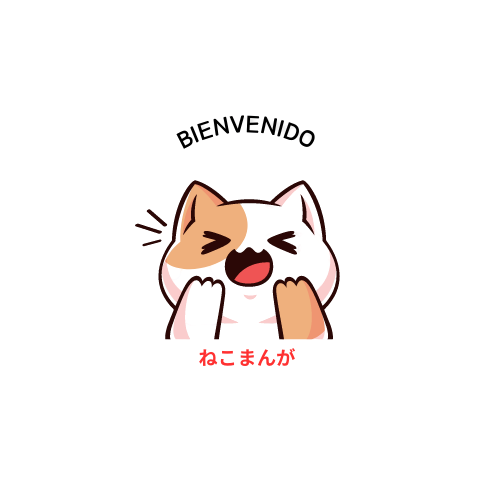
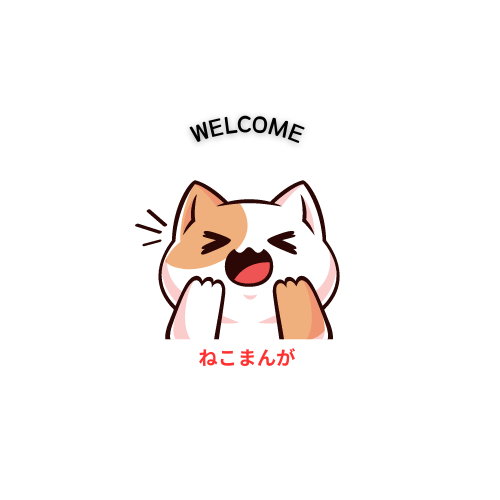
FinalChanges

Changed region(s): [[0.36, 0.21, 0.63, 0.3]]

diff --git a/src/pages/HomePage.jsx b/src/pages/HomePage.jsx
@@ -10,27 +10,27 @@ function HomePage() {
   <section id="bienvenida">
     
     <header>
-      <h1>Bienvenido!🌸</h1>
+      <h1>Welcome!🌸</h1>
     </header>
   </section>
 <section>
-  <h1 className="Description">⛩Encuentra productos originales importados desde Japón⛩</h1>
+  <h1 className="Description">⛩Find original products imported from Japan⛩</h1>
   </section>
   
   <div className="contenido1">
     <div className="texto">
       <p className="texto1">
-        Encontrarás una amplia selección de productos relacionados con el mundo del manga y anime.
+      You will find a wide selection of products related to the world of manga and anime.
       </p>
       <p className="texto2">
-        Contamos con juegos y artículos de colección, aquí tendrás todo lo que necesitas para satisfacer tu pasión por este fascinante universo. Ofrecemos productos de alta calidad a precios competitivos, junto con un servicio de atención al cliente excepcional.
+      We have games and collectibles, here you will have everything you need to satisfy your passion for this fascinating universe. We offer high-quality products at competitive prices, along with exceptional customer service.
       </p>
      
       <p className="texto3">
-        Podrás elegir entre clásicos hasta los últimos éxitos. Descubre figuras coleccionables, ropa, accesorios, mangas y mucho más.
+      You can choose from classics to the latest hits. Discover collectible figures, clothing, accessories, sleeves and much more.
       </p>
       <p className="texto4">
-        ⭐¡Explora nuestra tienda en línea!⭐
+        ⭐Explore our online store!⭐
 
         
       </p>

diff --git a/src/components/FigureList/FigureCard.jsx b/src/components/FigureList/FigureCard.jsx
@@ -1,13 +1,10 @@
-import React, { useState, useEffect, useContext } from 'react';
+import React, { useState, useEffect} from 'react';
 import axios from 'axios';
 import CardProduct from '../CardProduct';
-import { Link } from 'react-router-dom';
-import { AuthContext } from '../context/auth.context';
+
 
 function Figures() {
- 
   const [figures, setFigures] = useState([]);
-
   useEffect(() => {
     const baseURL = process.env.REACT_APP_SERVER_URL || "http://localhost:5005";
     axios.get(`${baseURL}/figures/create`).then(res => {
@@ -15,23 +12,17 @@ function Figures() {
       console.log(res.data)
     });
   }, [])
-  const { user,isLoggedIn } = useContext(AuthContext);
+
+
   return (  
     <div>
-   
       <h1>Figures</h1>
       <ul>
         {figures.map(figure => (
           <CardProduct key={figure._id} figure={figure} type={"figures"}/>
         ))}
       </ul>
-      {user && user.isAdmin && isLoggedIn ? (
-        <Link to="/create-manga">
-          <button>Create Product</button>
-        </Link>
-  ) : null}
     </div>
-    
   );
 }
 

diff --git a/src/pages/MangasList.jsx b/src/pages/MangasList.jsx
@@ -1,7 +1,8 @@
-import React, {useEffect, useState} from 'react'
+import React, {useEffect, useState, useContext } from 'react'
 import axios from 'axios';
 import CardProduct from '../components/CardProduct';
 import {Link, useNavigate} from 'react-router-dom';
+import { AuthContext } from '../context/auth.context';
 import './MangasList.css';
 
 function MangasList() {
@@ -28,16 +29,24 @@ function MangasList() {
             console.error(err);
         }
     };
+    const { user } = useContext(AuthContext)
+  console.log(user)
+  
+  let admin = "user"
+  if (user && user.type) {
+    admin = "admin"
+  } 
 
     return (
         <div>
             {mangas.map(manga => (
                 <CardProduct key={manga._id} figure={manga} type={"products"} handleDelete={handleDelete} />
             ))}
-          
+           {admin === 'admin' && (
             <Link to="/create-manga">
                 <button className='buton1'>Create Product</button>
             </Link>
+              )}
         </div>
     )
 }

diff --git a/src/pages/FiguresList.jsx b/src/pages/FiguresList.jsx
@@ -1,7 +1,7 @@
 import React, { useEffect, useState } from "react";
 import axios from "axios";
 import CardProduct from "../components/CardProduct";
-import { Link, useNavigate } from "react-router-dom";
+import {useNavigate } from "react-router-dom";
 
 function FiguresList() {
   const [figures, setFigures] = useState([]);
@@ -38,9 +38,6 @@ function FiguresList() {
           handleDelete={handleDelete}
         />
       ))}
-      <Link to="/create-manga">
-        <button className="buton1"> Create Product</button>
-      </Link>
     </div>
   );
 }

diff --git a/src/components/CardProduct.jsx b/src/components/CardProduct.jsx
@@ -3,7 +3,7 @@ import { Link, useNavigate } from 'react-router-dom';
 import './CardProduct.css';
 import axios from 'axios';
 import Card from 'react-bootstrap/Card';
- import { useContext } from 'react';
+import { useContext } from 'react';
 import {AuthContext} from '../context/auth.context'
 
 

diff --git a/README.md b/README.md
@@ -1,70 +1,44 @@
-# Getting Started with Create React App
 
-This project was bootstrapped with [Create React App](https://github.com/facebook/create-react-app).
+Neko Manga - Tienda en línea 
+Este proyecto es una tienda en línea que ofrece una amplia variedad de productos relacionados con el manga y el anime, incluyendo mangas, figuritas, posters, y otros productos de colección.
 
-## Available Scripts
+La tienda está desarrollada con tecnología React y Bootstrap, y está dividida en dos partes: la carpeta client y la carpeta server. La carpeta client contiene el código fuente de la aplicación cliente, mientras que la carpeta server contiene el código fuente del servidor.
 
-In the project directory, you can run:
+La tienda en línea de manga y anime se ha desarrollado con el objetivo de proporcionar una experiencia de compra en línea fácil y conveniente para los amantes del manga y el anime. Con una interfaz de usuario intuitiva y atractiva, los usuarios pueden navegar fácilmente a través de los productos y realizar compras de forma segura y eficiente.
 
-### `npm start`
+Tecnologías utilizadas
+React
+Bootstrap
+Estructura de la carpeta
+Este proyecto está dividido en dos partes: la carpeta client y la carpeta server.
 
-Runs the app in the development mode.\
-Open [http://localhost:3000](http://localhost:3000) to view it in your browser.
+Client
+La carpeta client contiene el código fuente de la aplicación cliente, que está desarrollada con React.
 
-The page will reload when you make changes.\
-You may also see any lint errors in the console.
+Server
+La carpeta server contiene el código fuente del servidor.
 
-### `npm test`
+Instalación
+Para instalar las dependencias necesarias, es necesario ejecutar el siguiente comando en la carpeta raíz del proyecto:
 
-Launches the test runner in the interactive watch mode.\
-See the section about [running tests](https://facebook.github.io/create-react-app/docs/running-tests) for more information.
+npm install
+Ejecución
+Para iniciar la aplicación, es necesario ejecutar los siguientes comandos en la carpeta raíz del proyecto:
 
-### `npm run build`
+cd client
+npm start
 
-Builds the app for production to the `build` folder.\
-It correctly bundles React in production mode and optimizes the build for the best performance.
+En otra terminal:
 
-The build is minified and the filenames include the hashes.\
-Your app is ready to be deployed!
+cd server
+npm start
+Contribuciones
+Si deseas contribuir al proyecto, por favor sigue estos pasos:
 
-See the section about [deployment](https://facebook.github.io/create-react-app/docs/deployment) for more information.
-
-### `npm run eject`
-
-**Note: this is a one-way operation. Once you `eject`, you can't go back!**
-
-If you aren't satisfied with the build tool and configuration choices, you can `eject` at any time. This command will remove the single build dependency from your project.
-
-Instead, it will copy all the configuration files and the transitive dependencies (webpack, Babel, ESLint, etc) right into your project so you have full control over them. All of the commands except `eject` will still work, but they will point to the copied scripts so you can tweak them. At this point you're on your own.
-
-You don't have to ever use `eject`. The curated feature set is suitable for small and middle deployments, and you shouldn't feel obligated to use this feature. However we understand that this tool wouldn't be useful if you couldn't customize it when you are ready for it.
-
-## Learn More
-
-You can learn more in the [Create React App documentation](https://facebook.github.io/create-react-app/docs/getting-started).
-
-To learn React, check out the [React documentation](https://reactjs.org/).
-
-### Code Splitting
-
-This section has moved here: [https://facebook.github.io/create-react-app/docs/code-splitting](https://facebook.github.io/create-react-app/docs/code-splitting)
-
-### Analyzing the Bundle Size
-
-This section has moved here: [https://facebook.github.io/create-react-app/docs/analyzing-the-bundle-size](https://facebook.github.io/create-react-app/docs/analyzing-the-bundle-size)
-
-### Making a Progressive Web App
-
-This section has moved here: [https://facebook.github.io/create-react-app/docs/making-a-progressive-web-app](https://facebook.github.io/create-react-app/docs/making-a-progressive-web-app)
-
-### Advanced Configuration
-
-This section has moved here: [https://facebook.github.io/create-react-app/docs/advanced-configuration](https://facebook.github.io/create-react-app/docs/advanced-configuration)
-
-### Deployment
-
-This section has moved here: [https://facebook.github.io/create-react-app/docs/deployment](https://facebook.github.io/create-react-app/docs/deployment)
-
-### `npm run build` fails to minify
-
-This section has moved here: [https://facebook.github.io/create-react-app/docs/troubleshooting#npm-run-build-fails-to-minify](https://facebook.github.io/create-react-app/docs/troubleshooting#npm-run-build-fails-to-minify)
+Haz un fork del repositorio:
+Client: https://github.com/Fernandae31/FinalClient
+Server: https://github.com/Fernandae31/FinalServer
+Crea una rama para tu contribución (git checkout -b feature/MyFeature)
+Haz tus cambios y realiza los commits (git commit -am 'Add some feature')
+Haz push a la rama (git push origin feature/MyFeature)
+Abre un Pull Request
